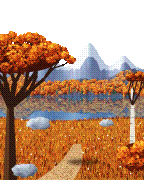
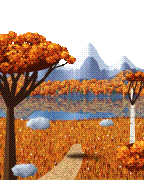
Accueil : Claaky intégré au paysage (éclairage, ombre, bords fondus, perspective)
Claude-Session: https://claude.ai/code/session_01K8Up91hhRQymWUsQ9ayYua

Changed region(s): [[0.4444, 0.8333, 0.75, 0.9444]]

diff --git a/src/components/WelcomeArt.tsx b/src/components/WelcomeArt.tsx
@@ -1,7 +1,8 @@
 import { useEffect, useRef } from "react";
 import skyUrl from "../assets/welcome/sky.png";
 import backUrl from "../assets/welcome/back.png";
-import claakyUrl from "../assets/welcome/claaky.png";
+import claaky0Url from "../assets/welcome/claaky0.png";
+import claaky1Url from "../assets/welcome/claaky1.png";
 import frontUrl from "../assets/welcome/front.png";
 import waterUrl from "../assets/welcome/water.png";
 
@@ -16,7 +17,8 @@ import waterUrl from "../assets/welcome/water.png";
  * draw calls per frame, so the motion stays cheap:
  *   - dithered reveal when the screen opens (Bayer order, top → bottom)
  *   - clouds drifting one cell at a time
- *   - Claaky bobbing by one cell
+ *   - Claaky bobbing by one cell (two frames baked into the scene, so his
+ *     edges, lighting and shadow already blend with the meadow)
  *   - sun glints sparkling on the lake (water.png mask)
  *   - autumn leaves falling across the scene (click = gust of leaves)
  * Everything stops on the first full frame under prefers-reduced-motion.
@@ -166,7 +168,7 @@ export function WelcomeArt({ className }: { className?: string }) {
 
     const compose = (now: number) => {
       if (!layers || !frame) return;
-      const [sky, back, claaky, front] = layers;
+      const [sky, back, claakyRest, claakyUp, front] = layers;
       const t = start < 0 ? 0 : now - start;
       const reveal = reduced ? 2 : Math.min(2, t / REVEAL_MS);
       const skyShift = reduced ? 0 : Math.floor(t / 650) % sky.w;
@@ -192,14 +194,11 @@ export function WelcomeArt({ className }: { className?: string }) {
             g = back.data[bo + 1];
             b = back.data[bo + 2];
           }
-          const cy = y + bob; // sample Claaky one cell lower → he rises
-          if (cy < CH) {
-            const co = (cy * CW + x) * 4;
-            if (claaky.data[co + 3] > 0) {
-              r = claaky.data[co];
-              g = claaky.data[co + 1];
-              b = claaky.data[co + 2];
-            }
+          const claaky = bob ? claakyUp : claakyRest;
+          if (claaky.data[bo + 3] > 0) {
+            r = claaky.data[bo];
+            g = claaky.data[bo + 1];
+            b = claaky.data[bo + 2];
           }
           if (front.data[bo + 3] > 0) {
             r = front.data[bo];
@@ -316,13 +315,13 @@ export function WelcomeArt({ className }: { className?: string }) {
     const observer = new ResizeObserver(resize);
     canvas.addEventListener("pointerdown", onPointerDown);
 
-    void Promise.all([skyUrl, backUrl, claakyUrl, frontUrl, waterUrl].map(loadPixels))
+    void Promise.all([skyUrl, backUrl, claaky0Url, claaky1Url, frontUrl, waterUrl].map(loadPixels))
       .then((loaded) => {
         if (disposed) return;
-        const water = loaded[4];
+        const water = loaded[5];
         waterCells = [];
         for (let i = 0; i < CW * CH; i += 1) if (water.data[i * 4] > 127) waterCells.push(i);
-        layers = loaded.slice(0, 4);
+        layers = loaded.slice(0, 5);
         start = performance.now();
         observer.observe(host);
         resize();

diff --git a/scripts/welcome-art/generate_welcome_art.py b/scripts/welcome-art/generate_welcome_art.py
@@ -9,7 +9,9 @@ the Welcome canvas (src/components/WelcomeArt.tsx) can animate them:
   sky.png     2× wide, horizontally tileable        → clouds drift
   back.png    mountains, lake, forest, meadow, path → static
   water.png   lake mask (L)                         → sun glints
-  claaky.png  Claaky sprite                         → gentle bob
+  claaky0.png / claaky1.png
+              Claaky relit by the scene and baked into it (edges blended
+              before the mosaic), resting / one cell up  → gentle bob
   front.png   foreground grass                      → static, over Claaky
 
 Usage:  python3 scripts/welcome-art/generate_welcome_art.py
@@ -25,6 +27,7 @@ import random
 
 import numpy as np
 from PIL import Image, ImageDraw, ImageFilter
+from scipy import ndimage
 
 HERE = os.path.dirname(os.path.abspath(__file__))
 OUT = os.path.normpath(os.path.join(HERE, "..", "..", "src", "assets", "welcome"))
@@ -32,6 +35,10 @@ OUT = os.path.normpath(os.path.join(HERE, "..", "..", "src", "assets", "welcome"
 CELLS_W, CELLS_H = 144, 180  # mosaic grid
 SCALE = 5                    # hi-res painting scale
 W, H = CELLS_W * SCALE, CELLS_H * SCALE
+
+# Claaky stands on the path, mid-distance (feet position, height in px).
+CLAAKY_FEET = (CELLS_W * SCALE * 0.535, CELLS_H * SCALE * 0.865)
+CLAAKY_H = CELLS_H * SCALE * 0.27
 
 rng = random.Random(7)
 nrng = np.random.default_rng(7)
@@ -503,36 +510,87 @@ def paint_back(sky_img: Image.Image):
     img = rock(img, X(0.17), Y(0.95), X(0.09), Y(0.045), 9, tone="#8a95a8")
     d = ImageDraw.Draw(img)
 
-    # Contact shadow under Claaky.
+    # Claaky's shadows: soft cast shadow (sun from the upper left) + contact.
+    fx, fy = CLAAKY_FEET
     sh = Image.new("RGBA", (W, H), (0, 0, 0, 0))
-    ImageDraw.Draw(sh).ellipse((X(0.47), Y(0.885), X(0.69), Y(0.915)), fill=(40, 14, 4, 160))
-    img.alpha_composite(sh.filter(ImageFilter.GaussianBlur(7)))
+    sd = ImageDraw.Draw(sh)
+    sd.polygon([(fx - X(0.05), fy - Y(0.004)), (fx + X(0.05), fy - Y(0.012)),
+                (fx + X(0.20), fy + Y(0.004)), (fx + X(0.16), fy + Y(0.022)),
+                (fx - X(0.04), fy + Y(0.014))], fill=(52, 18, 4, 150))
+    img.alpha_composite(sh.filter(ImageFilter.GaussianBlur(9)))
+    sh = Image.new("RGBA", (W, H), (0, 0, 0, 0))
+    ImageDraw.Draw(sh).ellipse((fx - X(0.075), fy - Y(0.008), fx + X(0.075), fy + Y(0.012)), fill=(36, 12, 2, 170))
+    img.alpha_composite(sh.filter(ImageFilter.GaussianBlur(4)))
     return img, Image.fromarray(water, "L")
 
 
 def paint_front():
     img = Image.new("RGBA", (W, H), (0, 0, 0, 0))
     d = ImageDraw.Draw(img)
-    for _ in range(500):  # grass blades in front of Claaky's feet
-        x = rng.uniform(X(0.42), X(0.74))
-        y = rng.uniform(Y(0.895), Y(0.93))
-        h = rng.uniform(6, 16)
-        d.line((x, y, x + rng.uniform(-4, 4), y - h), fill=autumn_color(rng.uniform(0.3, 0.95)) + (255,), width=2)
+    fx, fy = CLAAKY_FEET
+    for _ in range(420):  # tufts hiding Claaky's feet in the grass
+        x = fx + rng.gauss(0, X(0.06))
+        y = fy + rng.uniform(-Y(0.004), Y(0.02))
+        h = rng.uniform(7, 18)
+        d.line((x, y, x + rng.uniform(-4, 4), y - h), fill=autumn_color(rng.uniform(0.25, 0.9)) + (255,), width=2)
     return img
 
 
-def claaky_layer():
+def claaky_sprite() -> Image.Image:
+    """Claaky relit for the scene: warm key light from the upper left,
+    shade on the right, orange bounce from the meadow, warm rim, feet AO."""
     sprite = Image.open(os.path.join(HERE, "claaky-idle.png")).convert("RGBA")
     sprite = sprite.crop(sprite.split()[-1].getbbox())
-    target_h = int(Y(0.30))
-    sprite = sprite.resize((round(sprite.width * target_h / sprite.height), target_h), Image.LANCZOS)
-    arr = np.array(sprite, float)  # warm autumn light on Claaky
-    arr[..., 0] = np.clip(arr[..., 0] * 1.04 + 6, 0, 255)
-    arr[..., 2] = np.clip(arr[..., 2] * 0.94, 0, 255)
-    sprite = Image.fromarray(arr.astype(np.uint8), "RGBA")
-    img = Image.new("RGBA", (W, H), (0, 0, 0, 0))
-    img.alpha_composite(sprite, (int(X(0.58) - sprite.width / 2), int(Y(0.905) - sprite.height)))
-    return img
+    sprite = sprite.resize((round(sprite.width * CLAAKY_H / sprite.height), int(CLAAKY_H)), Image.LANCZOS)
+    arr = np.array(sprite, float)
+    h, w = arr.shape[:2]
+    ys, xs = np.mgrid[0:h, 0:w]
+    nx = (xs / max(w - 1, 1)) * 2 - 1
+    ny = ys / max(h - 1, 1)
+    rgb = arr[..., :3]
+    key = np.clip(1.04 - 0.16 * nx - 0.08 * ny, 0.74, 1.06)[..., None]
+    sun = np.array([255, 243, 224], float) / 255
+    rgb = rgb * key * sun
+    bounce = (smoothstep(0.6, 1.0, ny) * 0.13)[..., None]
+    rgb = rgb * (1 - bounce) + np.array(hex_rgb("#e07a2c"), float) * bounce
+    alpha = arr[..., 3] / 255
+    eroded = ndimage.grey_erosion(alpha, size=(7, 7))
+    rim = np.clip(alpha - eroded, 0, 1) * np.clip(-nx + 0.2, 0, 1) * (1 - ny * 0.6)
+    rgb = rgb + rim[..., None] * np.array([90, 60, 20], float)
+    ao = (1 - smoothstep(0.9, 1.0, ny) * 0.35)[..., None]
+    rgb = rgb * ao
+    rgb = rgb * 0.96 + np.array(hex_rgb("#c27424"), float) * 0.04  # share the scene's air
+    arr[..., :3] = np.clip(rgb, 0, 255)
+    return Image.fromarray(arr.astype(np.uint8), "RGBA")
+
+
+def bake_claaky_frames(back_hi: Image.Image, sky: Image.Image):
+    """Claaky composited into the hi-res scene *before* the mosaic, so his
+    edges blend with the meadow cells. Frame 1 is one cell higher (bob).
+    Each frame keeps only the cells around Claaky (alpha elsewhere = 0)."""
+    sprite = claaky_sprite()
+    fx, fy = CLAAKY_FEET
+    x0 = int(fx - sprite.width / 2)
+    y0 = int(fy - sprite.height)
+    scene = sky.crop((0, 0, W, H)).convert("RGBA")
+    scene.alpha_composite(back_hi)
+    union = np.zeros((H, W), float)
+    frames = []
+    for lift in (0, SCALE):
+        layer = Image.new("RGBA", (W, H), (0, 0, 0, 0))
+        layer.alpha_composite(sprite, (x0, y0 - lift))
+        union = np.maximum(union, np.array(layer.split()[-1], float))
+        comp = scene.copy()
+        comp.alpha_composite(layer)
+        frames.append(comp)
+    mask = Image.fromarray(union.astype(np.uint8), "L").resize((CELLS_W, CELLS_H), Image.BOX)
+    m = ndimage.binary_dilation(np.array(mask) > 8, iterations=1)
+    out = []
+    for comp in frames:
+        cells = np.array(to_cells(comp, CELLS_W, CELLS_H, levels=9).convert("RGBA"))
+        cells[..., 3] = np.where(m, 255, 0)
+        out.append(Image.fromarray(cells, "RGBA"))
+    return out
 
 
 # ---------------------------------------------------------------- mosaic
@@ -567,7 +625,8 @@ def main():
     water.resize((CELLS_W, CELLS_H), Image.BOX).point(lambda v: 255 if v > 140 else 0).save(
         os.path.join(OUT, "water.png"), optimize=True
     )
-    to_cells(claaky_layer(), CELLS_W, CELLS_H, levels=9).save(os.path.join(OUT, "claaky.png"), optimize=True)
+    for i, frame in enumerate(bake_claaky_frames(back, sky)):
+        frame.save(os.path.join(OUT, f"claaky{i}.png"), optimize=True)
     to_cells(paint_front(), CELLS_W, CELLS_H, levels=9).save(os.path.join(OUT, "front.png"), optimize=True)
     print("wrote", OUT)
 

diff --git a/AGENTS.md b/AGENTS.md
@@ -1,6 +1,6 @@
 Code map:
 - Marque : le logo vectoriel `ClaakeCodeMark.tsx` (SVG tracé depuis `claakecode-logo.png`, couleur `--logo`) représente le produit partout — barre de titre, en-tête de barre latérale, accueil, état vide de l'éditeur quand Claaky est désactivé (`EditorPane.tsx` → `.brand-tile`), écran de démarrage (`App.tsx`), Réglages → À propos. Claaky (mascotte) reste dans le chat (en-tête, réflexion, planification), dans sa chambre 3D au centre quand aucun fichier n'est ouvert (`ClaakyEmpty.tsx`), son compagnon et ses réglages, et dans l'illustration de l'accueil.
-- Accueil (switch de dossier) : `Welcome.tsx` en écran partagé — colonne type formulaire (boutons contour, fil d'Ariane, titre, champs « récents » soulignés, CTA sombre, note) + panneau `WelcomeArt.tsx` : canvas mosaïque LED (Claaky au bord d'un lac alpin en automne : sommets enneigés, reflet, forêt de mélèzes, grand arbre, bouleau, chemin), calques 144×180 + masque `water.png` (reflets du soleil) dans `src/assets/welcome/` générés par `scripts/welcome-art/generate_welcome_art.py` (sprite source `claaky-idle.png`) ; animations : révélation tramée Bayer, nuages qui défilent, Claaky qui sautille, feuilles qui tombent, rafale au clic. Peu de texte (fil d'Ariane, titre, récents avec chemins `~/…`, CTA). Espacements aérés dans `soft-ui.css` (barre de titre 44 px, `trafficLightPosition.y = 22`).
+- Accueil (switch de dossier) : `Welcome.tsx` en écran partagé — colonne type formulaire (boutons contour, fil d'Ariane, titre, champs « récents » soulignés, CTA sombre, note) + panneau `WelcomeArt.tsx` : canvas mosaïque LED (Claaky au bord d'un lac alpin en automne : sommets enneigés, reflet, forêt de mélèzes, grand arbre, bouleau, chemin), calques 144×180 + masque `water.png` (reflets du soleil) ; Claaky est ré-éclairé par la scène (lumière chaude à gauche, rebond orangé, ombre portée, herbe sur les pieds) et pré-incrusté avant la mosaïque dans `claaky0.png`/`claaky1.png` (repos / +1 cellule pour le sautillement) dans `src/assets/welcome/` générés par `scripts/welcome-art/generate_welcome_art.py` (sprite source `claaky-idle.png`) ; animations : révélation tramée Bayer, nuages qui défilent, Claaky qui sautille, feuilles qui tombent, rafale au clic. Peu de texte (fil d'Ariane, titre, récents avec chemins `~/…`, CTA). Espacements aérés dans `soft-ui.css` (barre de titre 44 px, `trafficLightPosition.y = 22`).
 - Motion design du chat : `src/styles/chat-motion.css` (importé après `soft-ui.css` dans `src/main.tsx`) — entrée des 6 derniers messages (fondu + flou, bulle utilisateur à ressort), point « live » en fin de réponse via `.chat-body[data-phase]` (`ChatPane.tsx`), shimmer « Thinking », balayage des outils en cours via `.tool-card[data-status][data-tool]` (`ToolCard.tsx`), halo conique autour du composer pendant un tour (`.composer--selector-locked`), pilule glissante Chat/RLM (`ChatSurface.tsx`, variables `--ind-x/--ind-w`) ; tout est coupé sous `prefers-reduced-motion`.
 - Design system « Soft » (refonte UI, inspirée des listes iOS) : jetons clair/sombre en tête de `src/styles.css` (clair par défaut via `src/lib/theme.ts`), couche composants `src/styles/soft-ui.css` importée après dans `src/main.tsx` (barre de titre en pilule flottante `.titlebar__pill` dans `Workspace.tsx`, contrôles segmentés, composer flottant, bulles utilisateur à droite), avatars générés `src/components/BlobAvatar.tsx` (+ `shortRelativeTime`) utilisés par `ConversationList.tsx` et `Welcome.tsx` (Claaky 2D en héros), thèmes Monaco alignés dans `src/lib/monacoThemes.ts`, feux macOS recentrés (`trafficLightPosition.y = 22`, barre de 48 px).
 - IDE natif sans LLM : revue du diff avant commit (`git.rs` `git_file_diff_command`, `GitDiffDialog.tsx`), diagnostics automatiques `tsc`/`cargo check` après changement de fichier (`diagnostics.rs`, `ProblemsPanel.tsx`, marqueurs Monaco dans `EditorPane.tsx`, activation explicite par workspace) et hooks locaux configurables (`ide_hooks.rs`, `IdeHooksSection.tsx`, réglages dans le dossier de données de l'app, jamais lus depuis le dépôt) ; exécution bornée partagée dans `ide_process.rs`. Plans : `.claakecode/plans/plan-ide-*.md`.
